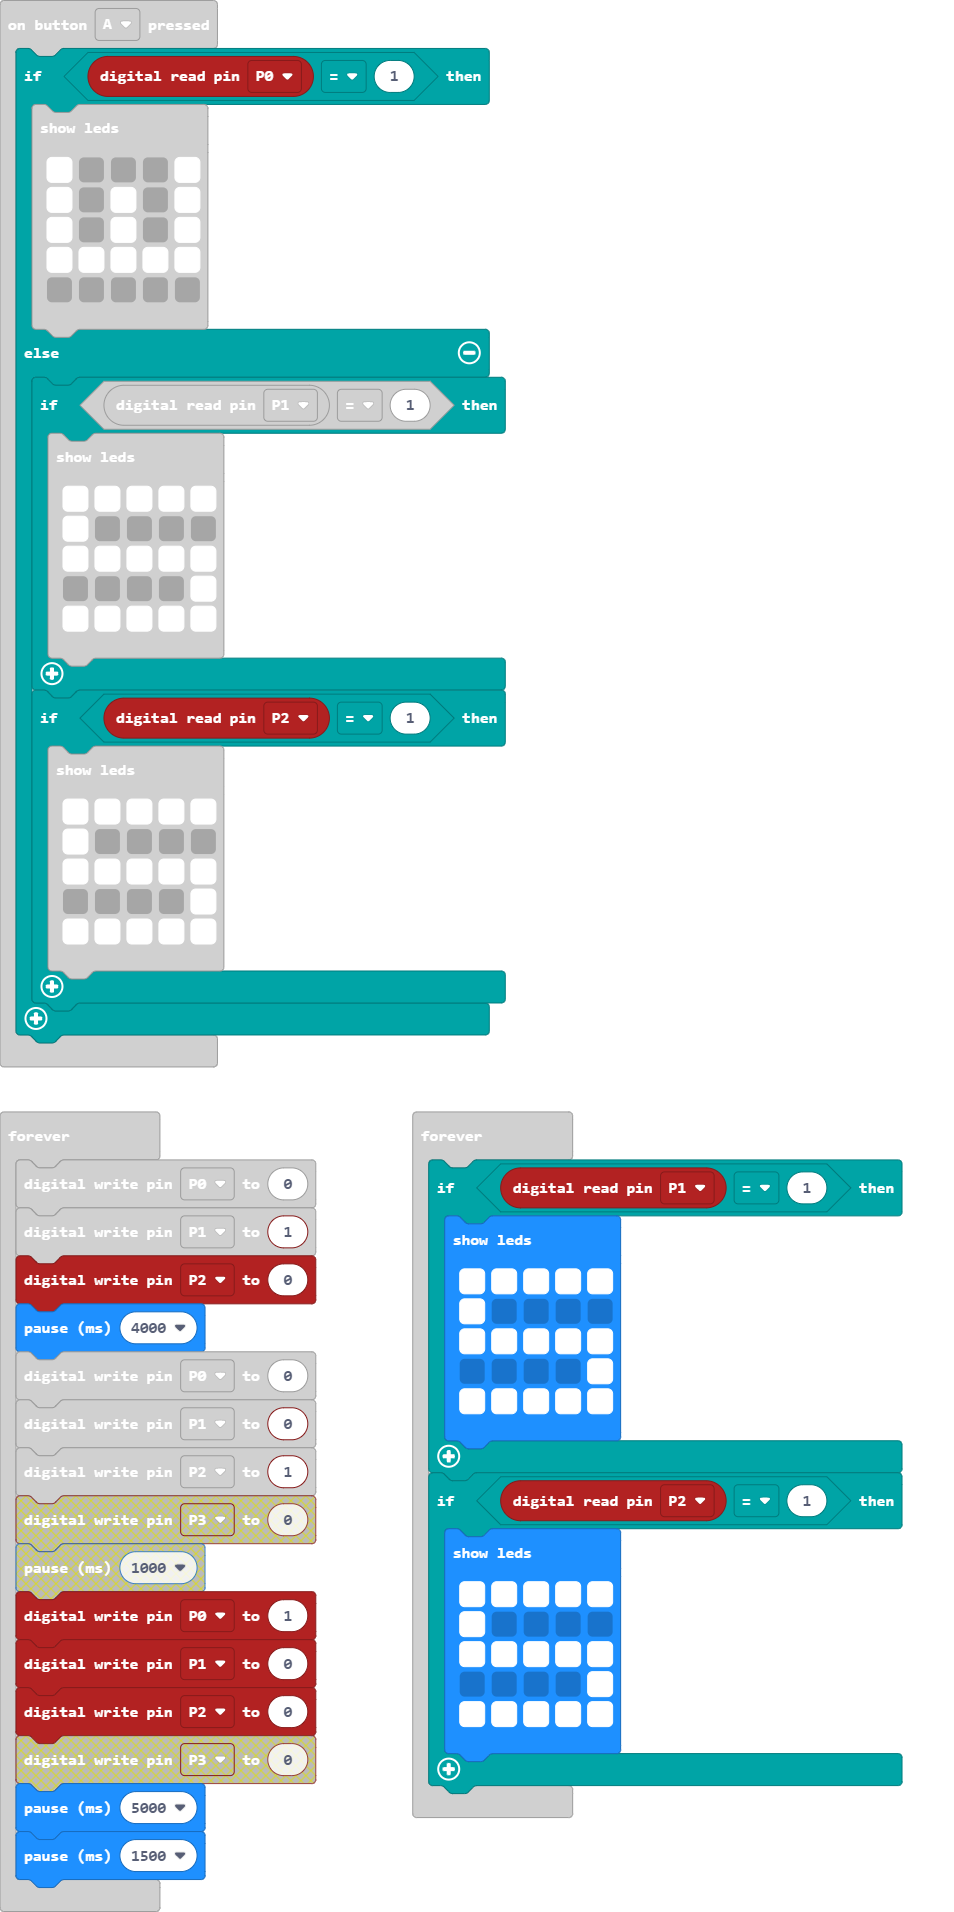
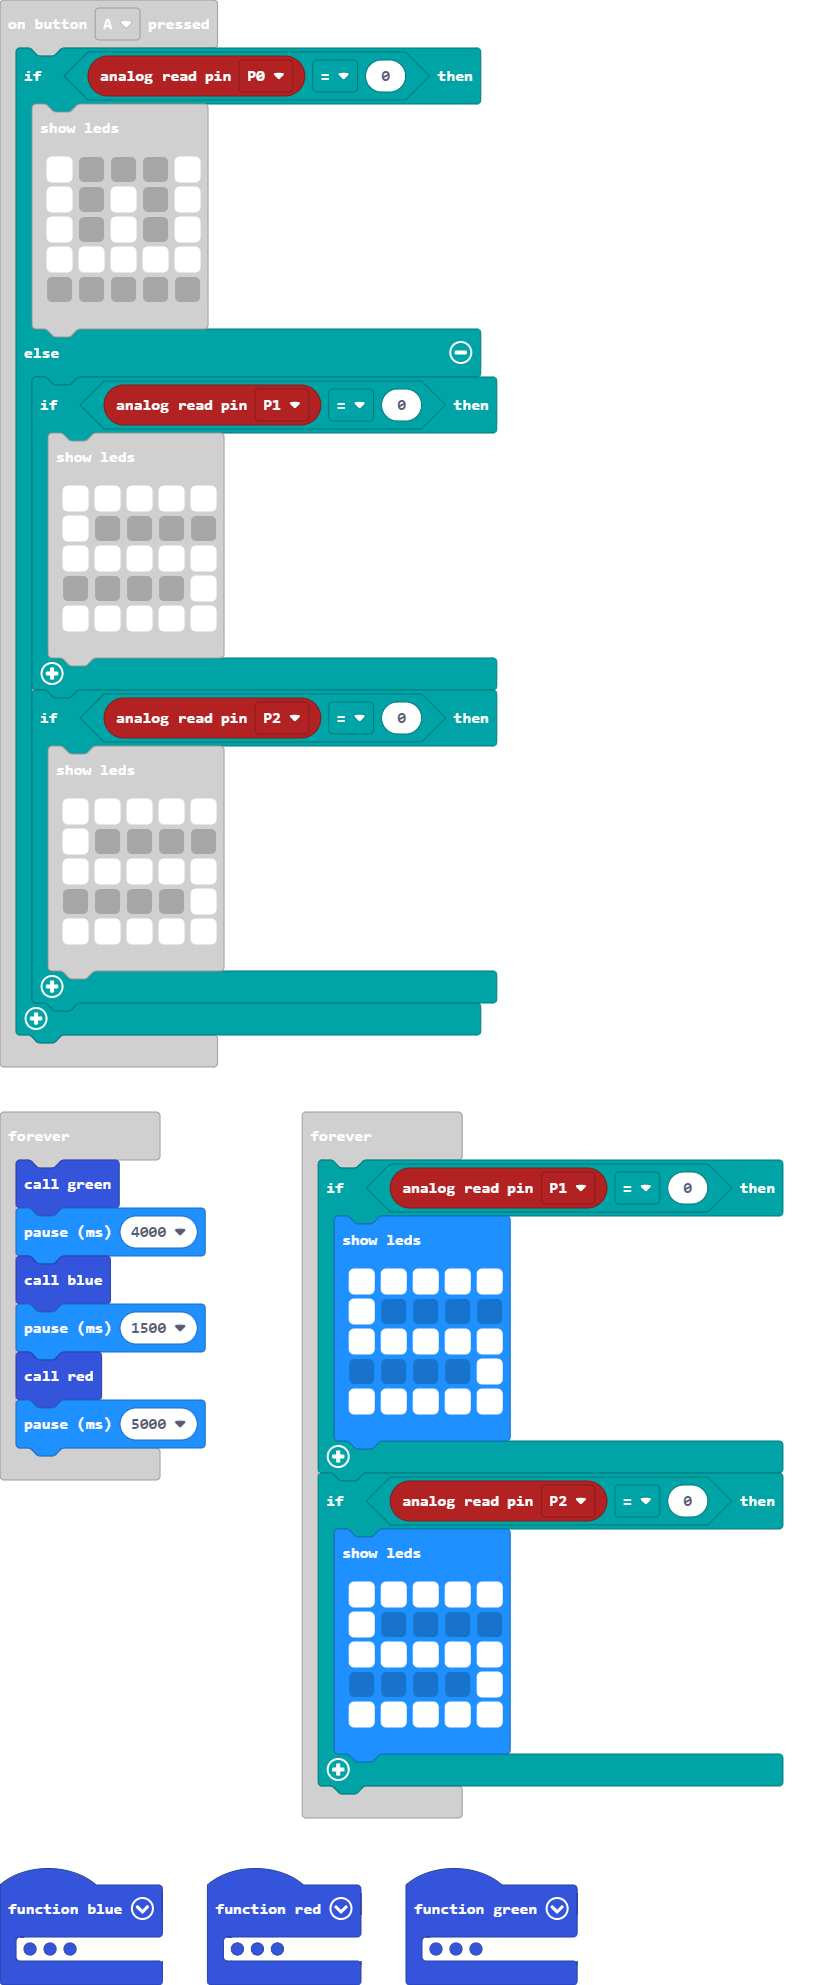
Update main.blocks, main.ts

diff --git a/main.ts b/main.ts
@@ -1,5 +1,10 @@
+function green () {
+    pins.analogWritePin(AnalogPin.P0, 1023)
+    pins.analogWritePin(AnalogPin.P1, 0)
+    pins.analogWritePin(AnalogPin.P2, 1023)
+}
 input.onButtonPressed(Button.A, function () {
-    if (pins.digitalReadPin(DigitalPin.P0) == 1) {
+    if (pins.analogReadPin(AnalogPin.P0) == 0) {
         basic.showLeds(`
             # . . . #
             # . # . #
@@ -8,7 +13,7 @@ input.onButtonPressed(Button.A, function () {
             . . . . .
             `)
     } else {
-        if (pins.digitalReadPin(DigitalPin.P1) == 1) {
+        if (pins.analogReadPin(AnalogPin.P1) == 0) {
             basic.showLeds(`
                 # # # # #
                 # . . . .
@@ -17,7 +22,7 @@ input.onButtonPressed(Button.A, function () {
                 # # # # #
                 `)
         }
-        if (pins.digitalReadPin(DigitalPin.P2) == 1) {
+        if (pins.analogReadPin(AnalogPin.P2) == 0) {
             basic.showLeds(`
                 # # # # #
                 # . . . .
@@ -28,46 +33,50 @@ input.onButtonPressed(Button.A, function () {
         }
     }
 })
+function blue () {
+    pins.analogWritePin(AnalogPin.P0, 1023)
+    pins.analogWritePin(AnalogPin.P1, 1023)
+    pins.analogWritePin(AnalogPin.P2, 0)
+}
+function red () {
+    pins.analogWritePin(AnalogPin.P0, 0)
+    pins.analogWritePin(AnalogPin.P1, 1023)
+    pins.analogWritePin(AnalogPin.P2, 1023)
+}
 basic.forever(function () {
-	
-})
-basic.forever(function () {
-    pins.digitalWritePin(DigitalPin.P0, 0)
-    pins.digitalWritePin(DigitalPin.P1, 1)
-    pins.digitalWritePin(DigitalPin.P2, 0)
+    green()
     basic.pause(4000)
-    pins.digitalWritePin(DigitalPin.P0, 0)
-    pins.digitalWritePin(DigitalPin.P1, 0)
-    pins.digitalWritePin(DigitalPin.P2, 1)
+    blue()
     basic.pause(1500)
-    pins.digitalWritePin(DigitalPin.P0, 1)
-    pins.digitalWritePin(DigitalPin.P1, 0)
-    pins.digitalWritePin(DigitalPin.P2, 0)
+    red()
     basic.pause(5000)
 })
 basic.forever(function () {
 	
 })
 basic.forever(function () {
-    if (pins.digitalReadPin(DigitalPin.P1) == 1) {
-        basic.showLeds(`
-            # # # # #
-            # . . . .
-            # # # # #
-            . . . . #
-            # # # # #
-            `)
-    }
-    if (pins.digitalReadPin(DigitalPin.P2) == 1) {
-        basic.showLeds(`
-            # # # # #
-            # . . . .
-            # # # # #
-            . . . . #
-            # # # # #
-            `)
-    }
+	
 })
 basic.forever(function () {
 	
+})
+basic.forever(function () {
+    if (pins.analogReadPin(AnalogPin.P1) == 0) {
+        basic.showLeds(`
+            # # # # #
+            # . . . .
+            # # # # #
+            . . . . #
+            # # # # #
+            `)
+    }
+    if (pins.analogReadPin(AnalogPin.P2) == 0) {
+        basic.showLeds(`
+            # # # # #
+            # . . . .
+            # # # # #
+            . . . . #
+            # # # # #
+            `)
+    }
 })
